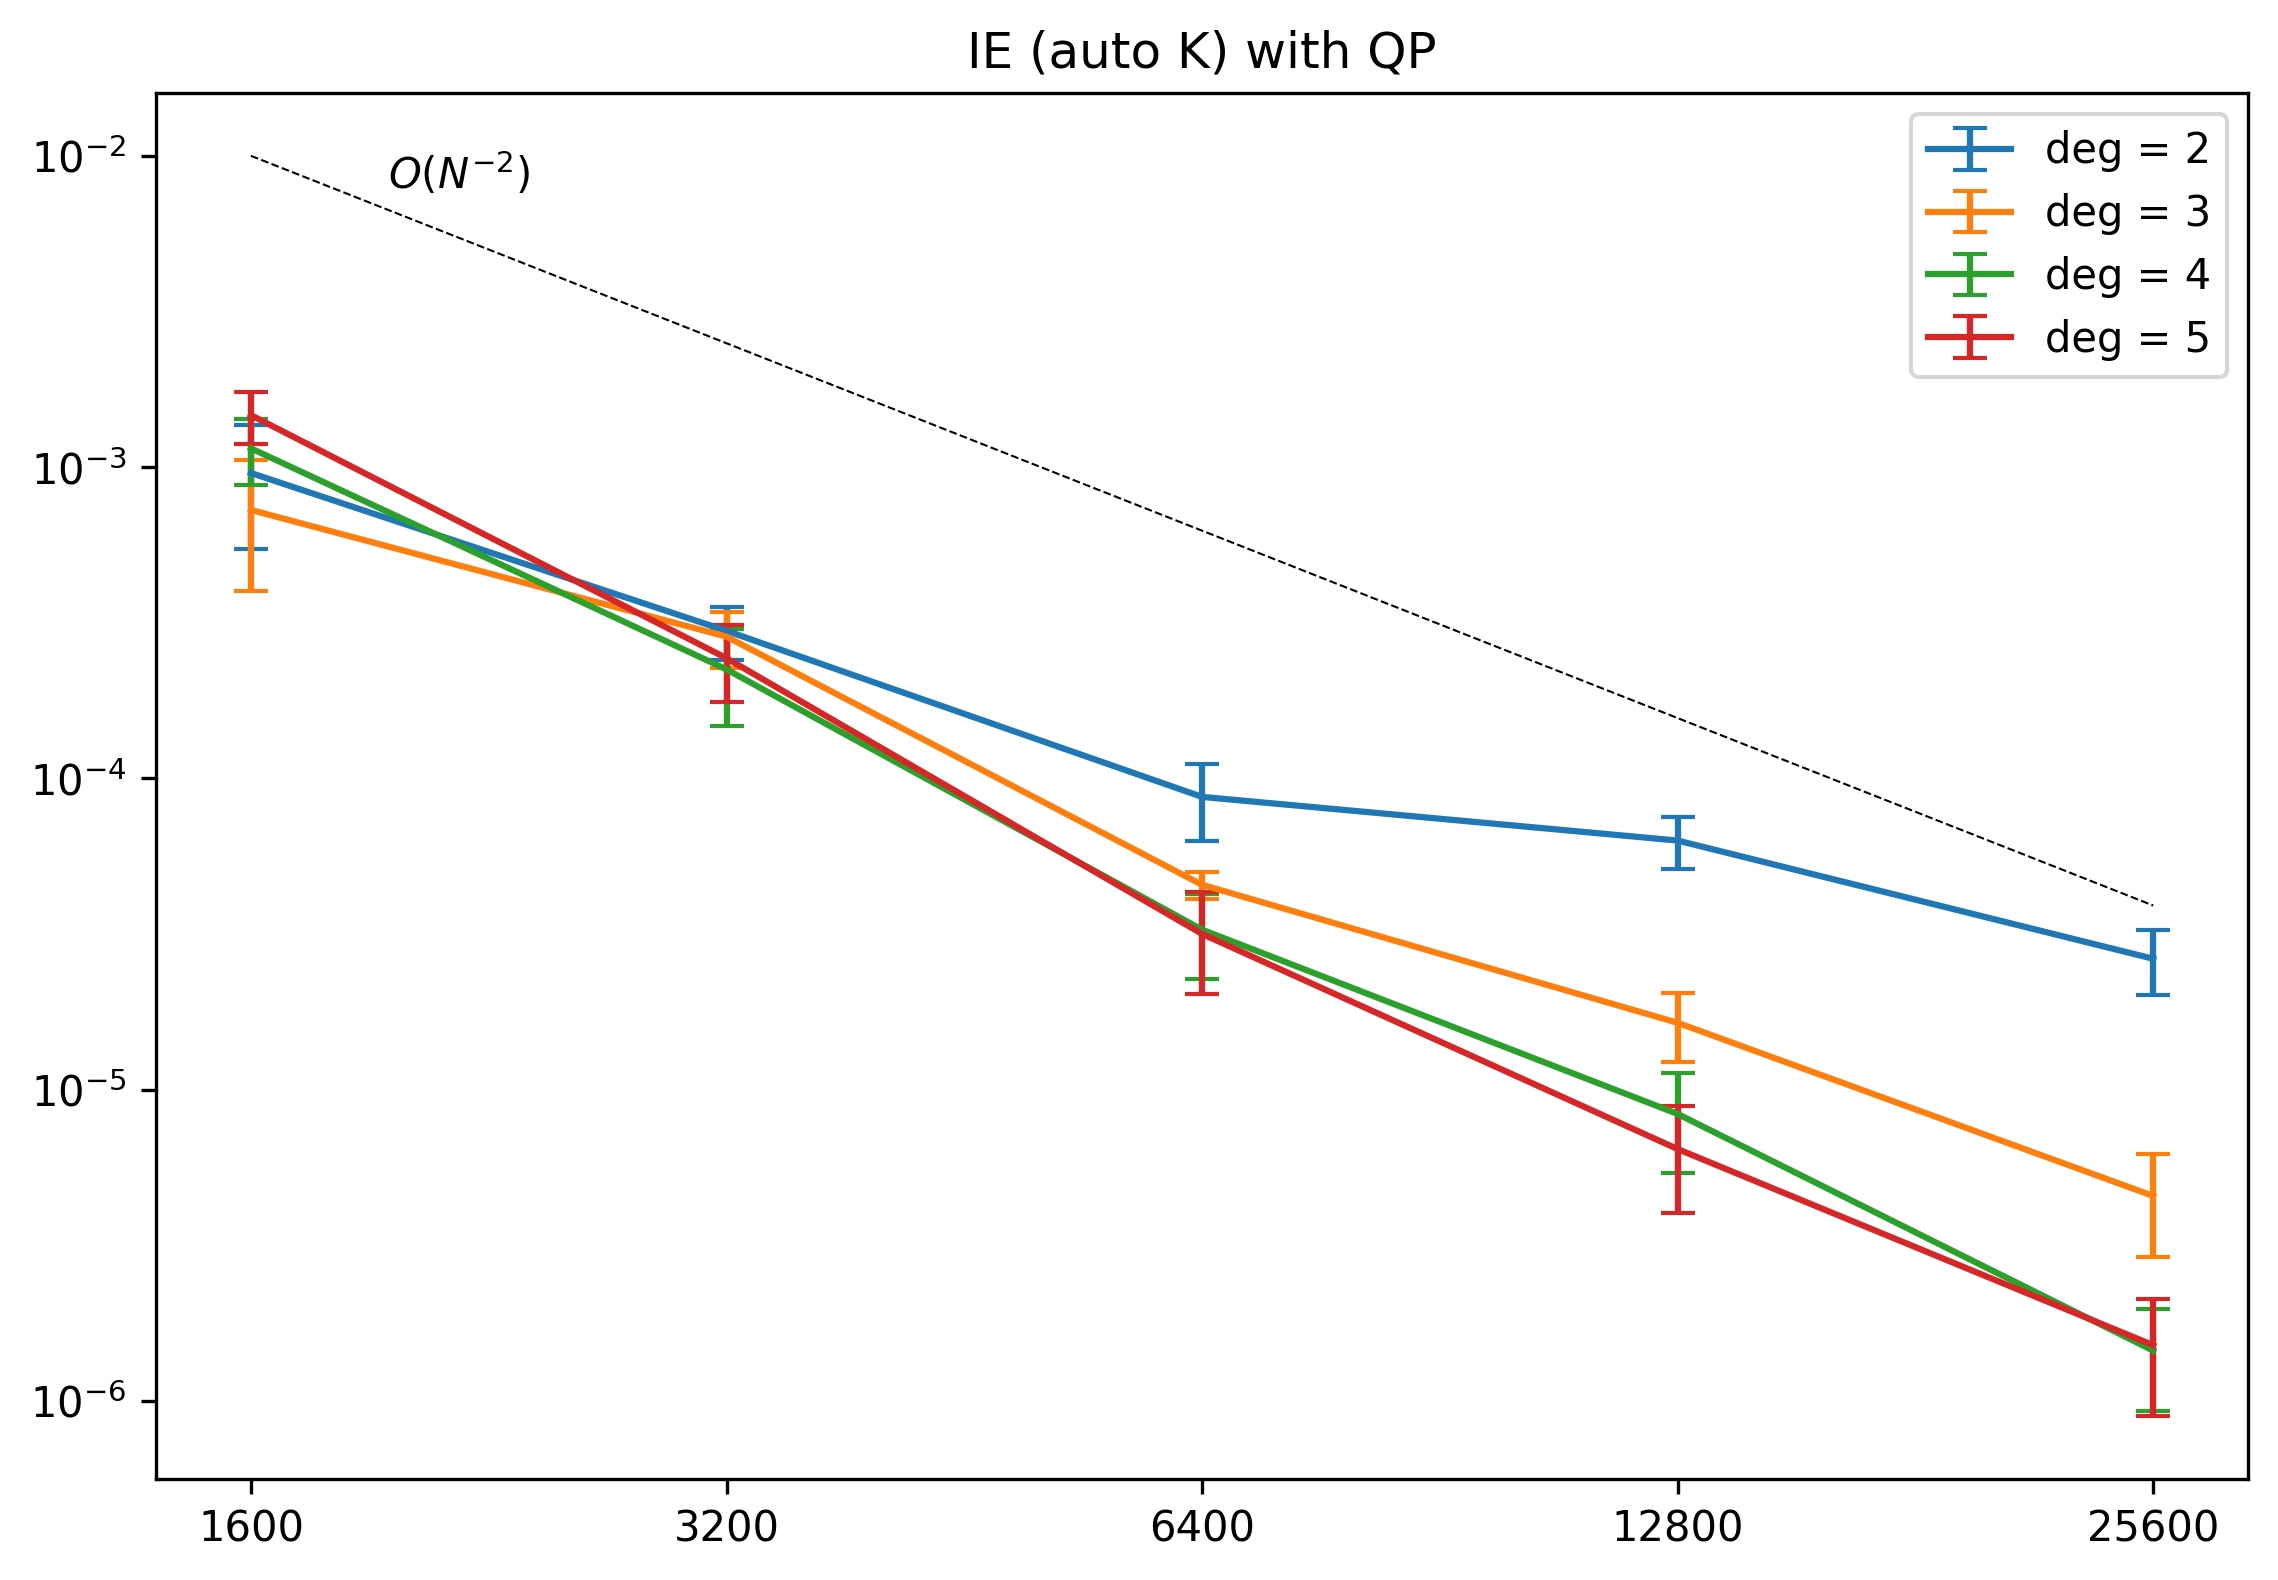
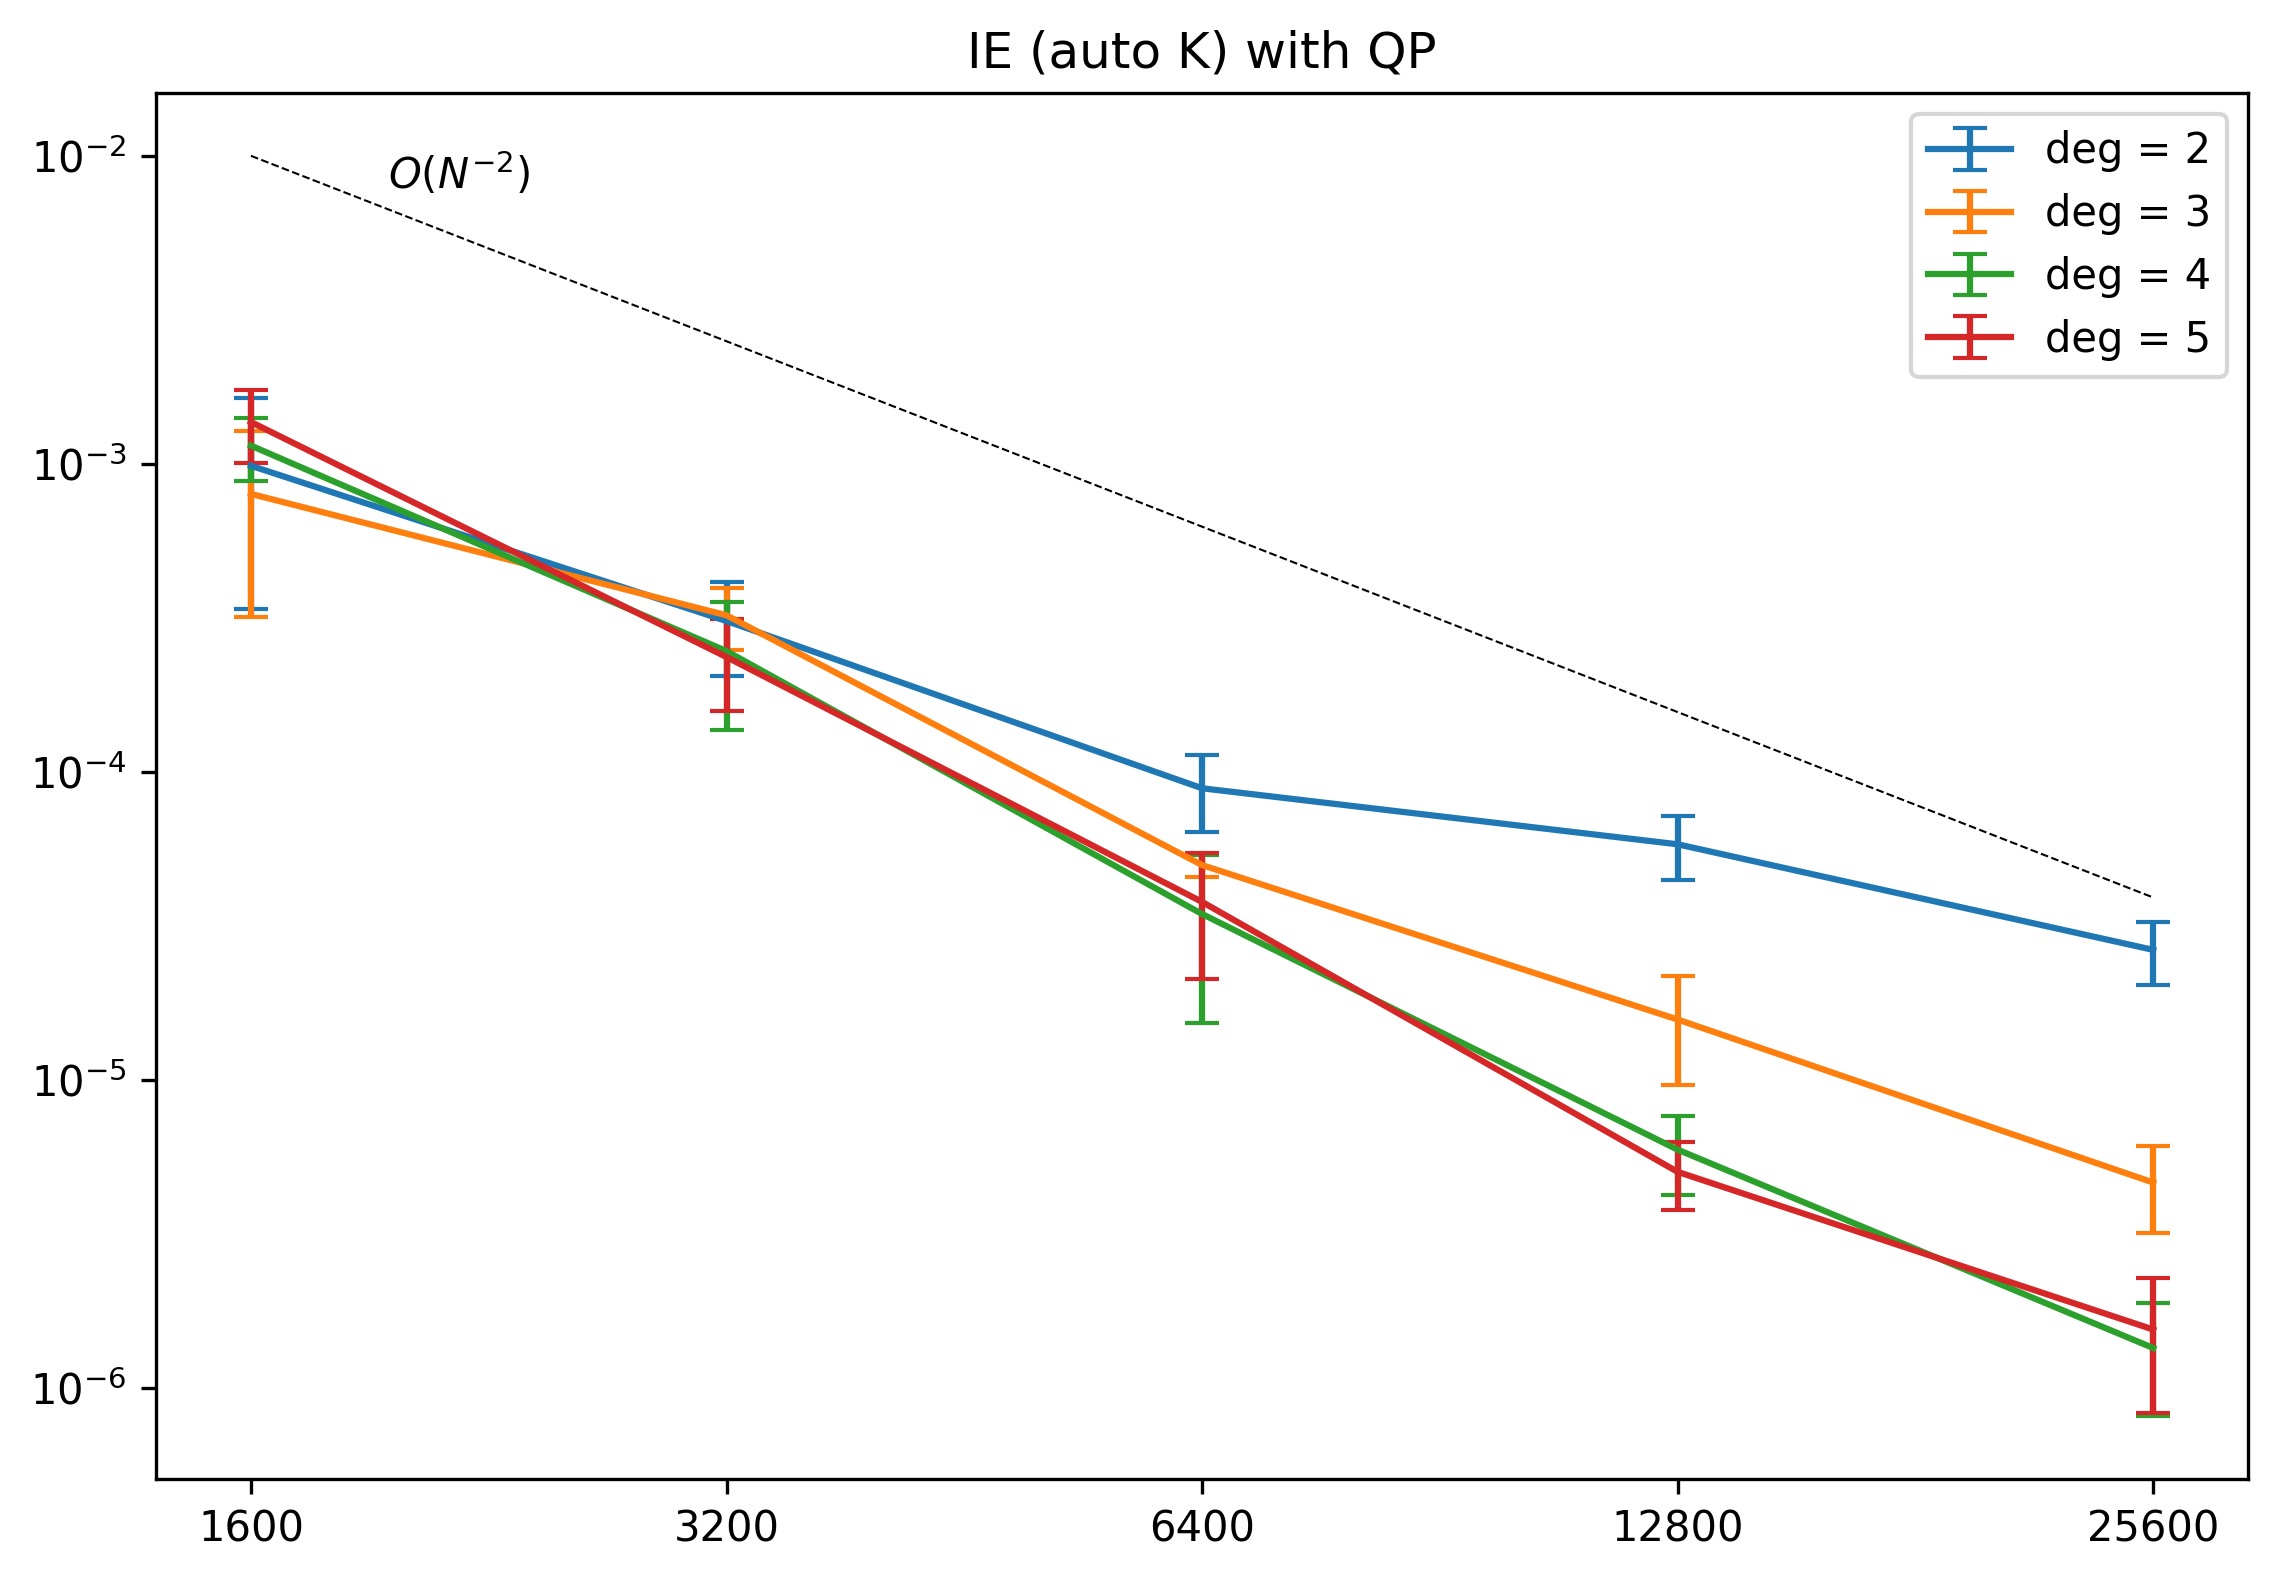
style: reconstruct

diff --git a/problems/poisson_robin_semi_torus.py b/problems/poisson_robin_semi_torus.py
@@ -1,24 +1,13 @@
 from src import *
 from scipy.spatial import cKDTree
-import argparse
 import pickle
 import datetime
 
-def main(args):
+def poisson_robin_semi_torus(N, K=25, l=4, kappa=3, delta=1e-5, l_grad=3, K_grad=20, W='1/K', W_grad='1/K', seed=None, auto_K=True, qp=True, l2=True, save=False):
     #-- PARAMETERS --#
 
-    N = args.N
-    K = args.K
-    l = args.l
-    kappa = args.kappa
-    delta = args.delta
-    W = args.W
-    W_grad = args.W_grad
-    l_grad = args.l_grad
-    K_grad = args.K_grad
-
-    if args.seed is not None:
-        np.random.seed(args.seed)
+    if seed is not None:
+        np.random.seed(seed)
 
     #-- GEOMETRY --#
 
@@ -81,10 +70,8 @@ def main(args):
 
     u_lap_sym = manifold.get_laplacian(u_sym)
     u_grad_sym = manifold.get_gradient(u_sym)
-    if args.screened:
-        f_sym = u_sym - u_lap_sym
-    else:
-        f_sym = -u_lap_sym
+
+    f_sym = -u_lap_sym
 
     tt = manifold.params[:, 0]
     pp = manifold.params[:, 1]
@@ -122,11 +109,16 @@ def main(args):
     #-- OPERATORS --#
 
     L = np.zeros((num_interior, N))
+    positive_before_qp = []
+    positive_after_qp = []
+    ratio_before_qp = []
+    ratio_after_qp = []
+
     tree_full = cKDTree(manifold.points)
 
     bad_count = 0
     for i, i_id in enumerate(id_interior):
-        if args.auto_K:
+        if auto_K:
             K_current = K
             max_K_retries = 15
 
@@ -209,9 +201,12 @@ def main(args):
         
         is_unstable = ratio < 1.0
 
+        positive_before_qp.append(is_positive)
+        ratio_before_qp.append(ratio)
+
         if is_positive or is_unstable:
             bad_count += 1
-            if args.qp:
+            if qp:
                 K_current = K # fixed to initial K
                 max_K_retries = 15
 
@@ -263,20 +258,38 @@ def main(args):
                         break
 
                 if best_weights is None:
-                    raise RuntimeError("operator sign error")
+                    if weights_lap is not None:
+                        print(f'Warning: center weight positive at interior index {i_id}')
+                        pass # use last weights
+                    else:
+                        # no optimal solution 
+                        raise RuntimeError('no optimal solution')
                 else:
                     weights_lap = best_weights
                     stencil_ids = best_stencil_ids
 
+                w_center = weights_lap[0, 0]
+                w_neighbors = weights_lap[0, 1:]
+                
+                is_positive = w_center > 0.0
+                
+                # ratio = |w_center| / max(|w_neighbors|)
+                ratio = np.abs(w_center) / np.max(np.abs(w_neighbors))
+                
+                is_unstable = ratio < 1.0
+
+                positive_after_qp.append(is_positive)
+                ratio_after_qp.append(ratio)
+
         L[i, stencil_ids] = weights_lap[0, :]
 
-    print(f"bad count = {bad_count}")
+    # print(f"bad count = {bad_count}")
 
     D_n = np.zeros((num_boundary, N))
     tree_interior = cKDTree(manifold.points[id_interior])
 
     for i, b_id in enumerate(id_boundary):
-        if args.auto_K:
+        if auto_K:
             K_current = K_grad
             max_K_retries = 15
 
@@ -362,10 +375,7 @@ def main(args):
         D_n[i, stencil_ids] = weights_grad_n
 
     #-- SYSTEM PARTITION --#
-    if args.screened:
-        A = np.eye(N)[:num_interior, :] - L
-    else:
-        A = -L
+    A = -L
     A_II = A[:, id_interior]
     A_IB = A[:, id_boundary]
 
@@ -397,7 +407,7 @@ def main(args):
     # du/dn FE
     fe_boundary_pointwise = np.abs(D_n @ u_vals - np.sum(n_vecs * u_grad_vals_boundary, axis=1))
 
-    if args.l2:
+    if l2:
         fe = np.sqrt(np.sum(fe_pointwise ** 2) / num_interior)
         fe_boundary = np.sqrt(np.sum(fe_boundary_pointwise ** 2) / num_boundary)
         ie = np.sqrt(np.sum(ie_pointwise ** 2) / N)
@@ -407,11 +417,8 @@ def main(args):
         ie = np.max(ie_pointwise)
     # st = np.linalg.norm(np.linalg.inv(A_prime), ord=np.inf)
 
-    print(f'FE: {fe:.3e} IE: {ie:.3e}')
-    # print(f'ST: {st:.3e}')
-    # print(f'FE (boundary): {fe_boundary:.3e}')
 
-    if args.save:
+    if save:
         data = {
             'params': manifold.params,
             'points': manifold.points,
@@ -424,58 +431,8 @@ def main(args):
         now = datetime.datetime.now()
         formatted_time = now.strftime('%m%d_%H%M%S')
 
-        filename = f"N{N}_l_grad{l_grad}reg_{args.delta}_qp_l2_seed{args.seed}"
+        filename = f"N{N}_l_grad{l_grad}reg_{delta}_qp_l2_seed{seed}"
         with open(f'./results/poisson_robin_semi_torus/{filename}.pkl', 'wb') as f:
             pickle.dump(data, f)
 
-if __name__ == '__main__':
-    parser = argparse.ArgumentParser()
-
-    parser.add_argument(
-        '-N', type=int, default=6400
-    )
-    parser.add_argument(
-        '-K', type=int, default=20
-    )
-    parser.add_argument(
-        '--K_grad', type=int, default=20
-    )
-    parser.add_argument(
-        '-l', type=int, default=4
-    )
-    parser.add_argument(
-        '--kappa', type=int, default=3
-    )
-    parser.add_argument(
-        '--delta', type=float, default=1e-5
-    )
-    parser.add_argument(
-        '-W', type=str, default='1/K'
-    )
-    parser.add_argument(
-        '--l_grad', type=int, default=3
-    )
-    parser.add_argument(
-        '--W_grad', type=str, default='1/K'
-    )
-    parser.add_argument(
-        '--save', action='store_true'
-    )
-    parser.add_argument(
-        '--qp', action='store_true', default=True
-    )
-    parser.add_argument(
-        '--auto_K', action='store_true', default=True
-    )
-    parser.add_argument(
-        '--l2', action='store_true', default=True
-    )
-    parser.add_argument(
-        '--screened', action='store_true'
-    )
-    parser.add_argument(
-        '--seed', type=int, default=None
-    )
-
-    args = parser.parse_args()
-    main(args)
+    return fe, ie

diff --git a/convergence.py b/convergence.py
@@ -1,17 +1,18 @@
-import subprocess
 import argparse
-import random
 import re
 import datetime
 from pathlib import Path
 import numpy as np
 from utils import *
+from problems import *
 
 def main(args):
     if args.csv is None:
         N_vals = [1600, 3200, 6400, 12800, 25600]
         l_grad_vals = [2, 3, 4, 5]
         K_grad_vals = [15, 20, 25, 30]
+        # l_vals = [2, 3, 4, 5]
+        # K_vals = [15, 20, 25, 30]
 
         trials = 4
 
@@ -28,18 +29,17 @@ def main(args):
                 for t in range(trials):
                     current_seed = seeds[t]
                     
-                    for i in range(len(l_grad_vals)):
+                    for i in range(trials):
                         l_grad = l_grad_vals[i]
                         K_grad = K_grad_vals[i]
-                        cmd = f"python poisson_robin_semi_torus.py -N {N} --l_grad {l_grad} --K_grad {K_grad} --seed {current_seed}"
-                        output = subprocess.getoutput(cmd)
-                        
-                        fe = re.search(r"FE:\s+([0-9\.eE\-\+]+)", output).group(1)
-                        ie = re.search(r"IE:\s+([0-9\.eE\-\+]+)", output).group(1)
+                        # l = l_vals[i]
+                        # K = K_vals[i]
+                        fe, ie = poisson_robin_semi_torus(N, l_grad=l_grad, K_grad=K_grad, seed=current_seed)
                 
-                        print(f"[N={N}, l_grad={l_grad}, T={t+1}] FE: {fe} | IE: {ie}")
+                        print(f"[N={N}, l_grad={l_grad}, T={t+1}] FE: {fe:.3e} | IE: {ie:.3e}")
+                        # print(f"[N={N}, l={l}, T={t+1}] FE: {fe} | IE: {ie}")
                         
-                        f.write(f"{N},{l_grad},{t+1},{current_seed},{fe},{ie}\n")
+                        f.write(f"{N},{l_grad},{t+1},{current_seed},{fe:.3e},{ie:.3e}\n")
                         f.flush()
 
     else:
@@ -63,6 +63,7 @@ def main(args):
         for n in unique_Ns:
             mask = (data['N'] == n) & (data['l_grad'] == l)
             err_vals = data['IE'][mask]
+            # err_vals = data['FE'][mask]
             
             if err_vals.size > 0:
                 mean_list.append(np.mean(err_vals))
@@ -78,7 +79,7 @@ def main(args):
         }
         err_stat_list.append(stat)
 
-    plot_convergence(unique_Ns, err_stat_list)
+    plot_convergence(unique_Ns, err_stat_list, title='IE (auto K) with QP')
 
 if __name__ == '__main__':
     parser = argparse.ArgumentParser()

diff --git a/utils/plotting.py b/utils/plotting.py
@@ -2,7 +2,7 @@ import matplotlib.pyplot as plt
 import numpy as np
 from matplotlib.colors import LogNorm
 
-def plot_convergence(N_vals, err_stat_list, filename='temp', ref_anchor=None):
+def plot_convergence(N_vals, err_stat_list, title='Error', filename='temp', ref_anchor=None):
     fig, ax = plt.subplots(figsize=(9, 6))
 
     for stat in err_stat_list:
@@ -42,7 +42,7 @@ def plot_convergence(N_vals, err_stat_list, filename='temp', ref_anchor=None):
 
     ax.legend()
 
-    plt.title(r"IE (auto K) with QP")
+    plt.title(title)
 
     plt.savefig(filename, dpi=300, bbox_inches='tight')
     plt.show()

diff --git a/src/operators.py b/src/operators.py
@@ -66,6 +66,7 @@ def get_operator_weights(stencil, tangent_basis, kappa=3, l=4, delta=1e-8, qp=Fa
 
         # center: w_0 <= 0
         A[row_id, 0] = 1.0
+        A[row_id, -1] = 1.0 # w_0 + C <= 0
 
         row_id += 1
         

diff --git a/problems/__init__.py b/problems/__init__.py
@@ -1,0 +1,1 @@
+from .poisson_robin_semi_torus import *
